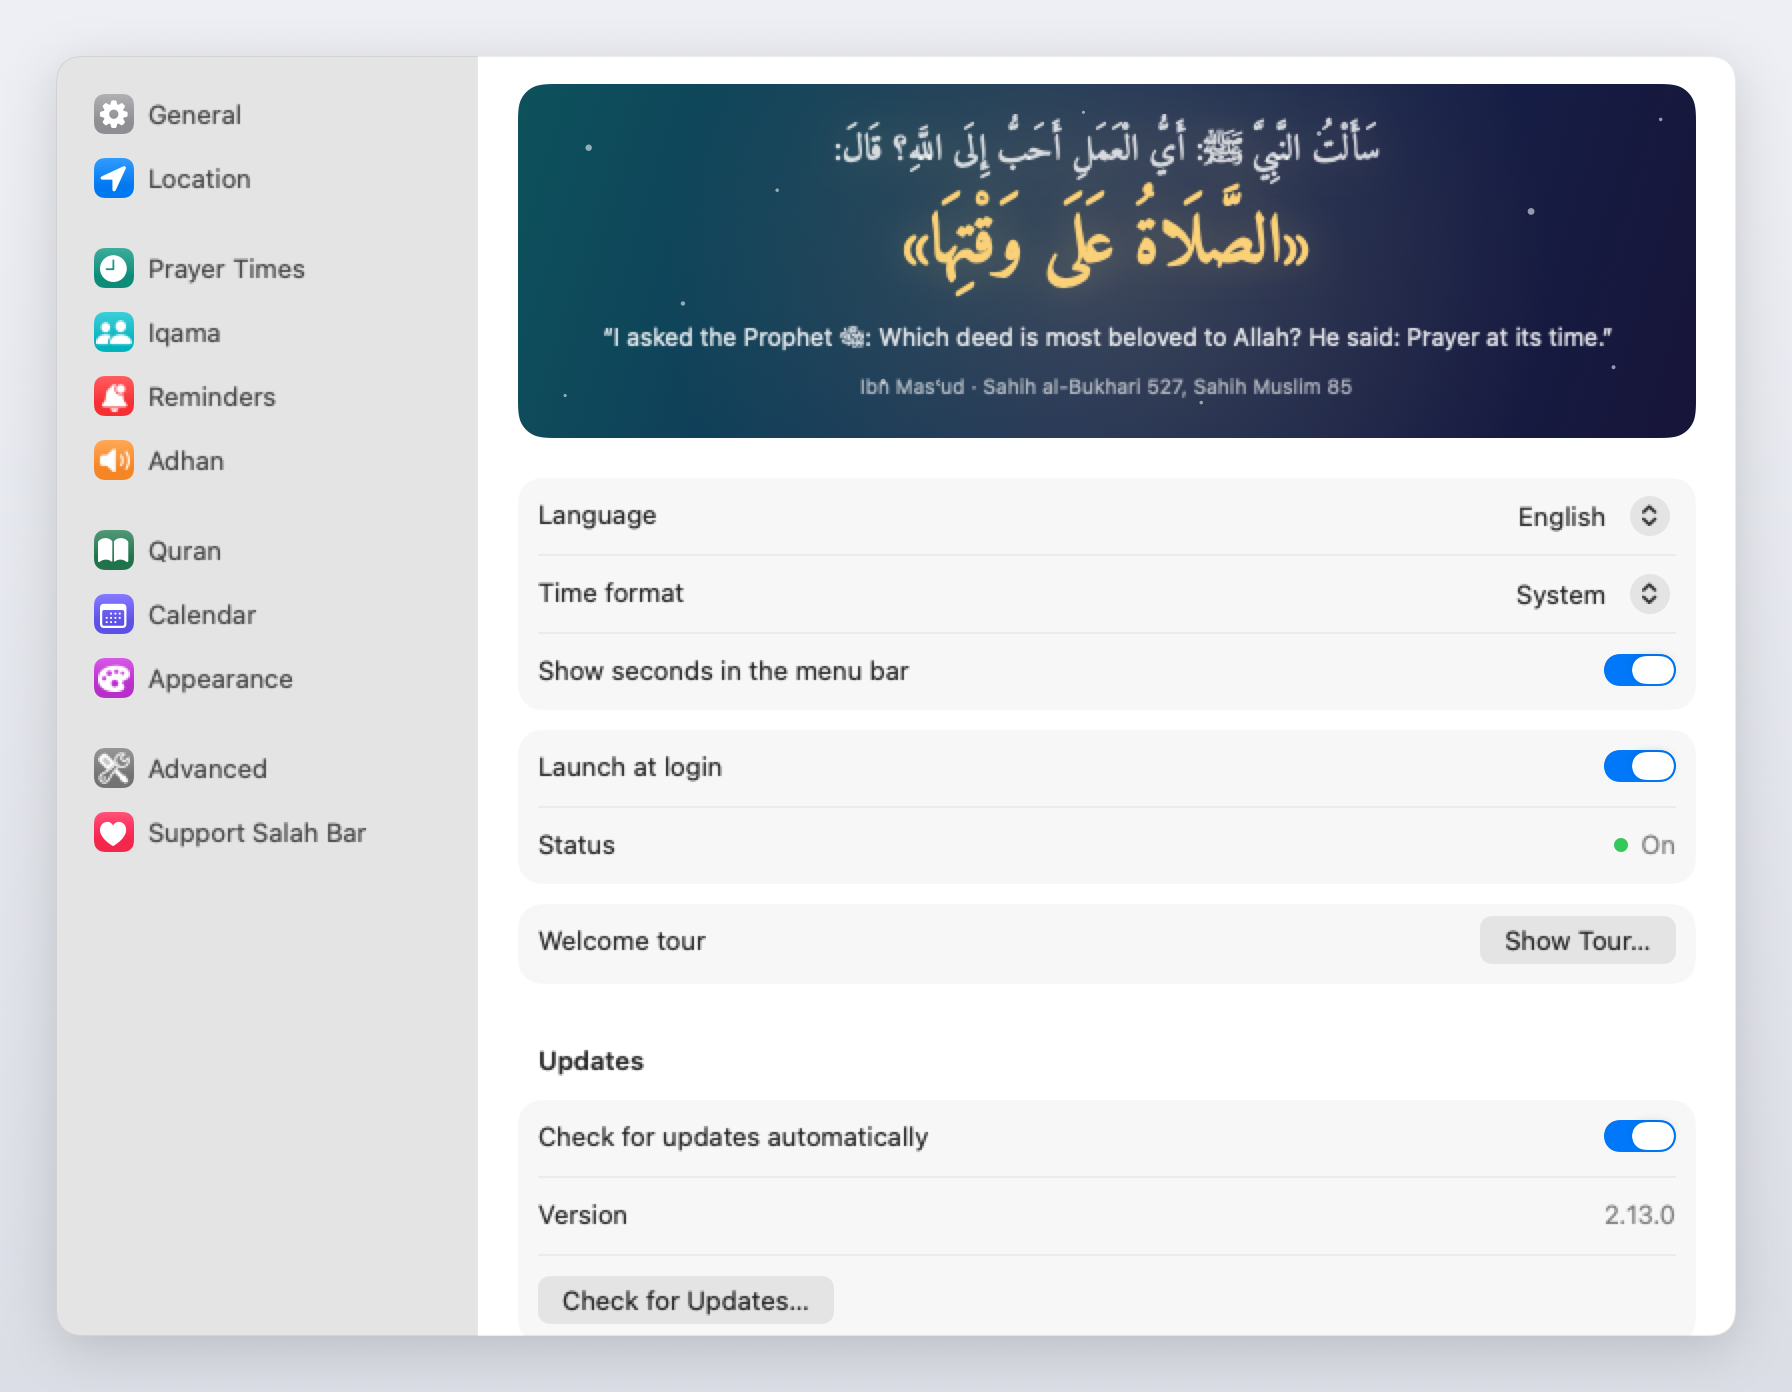
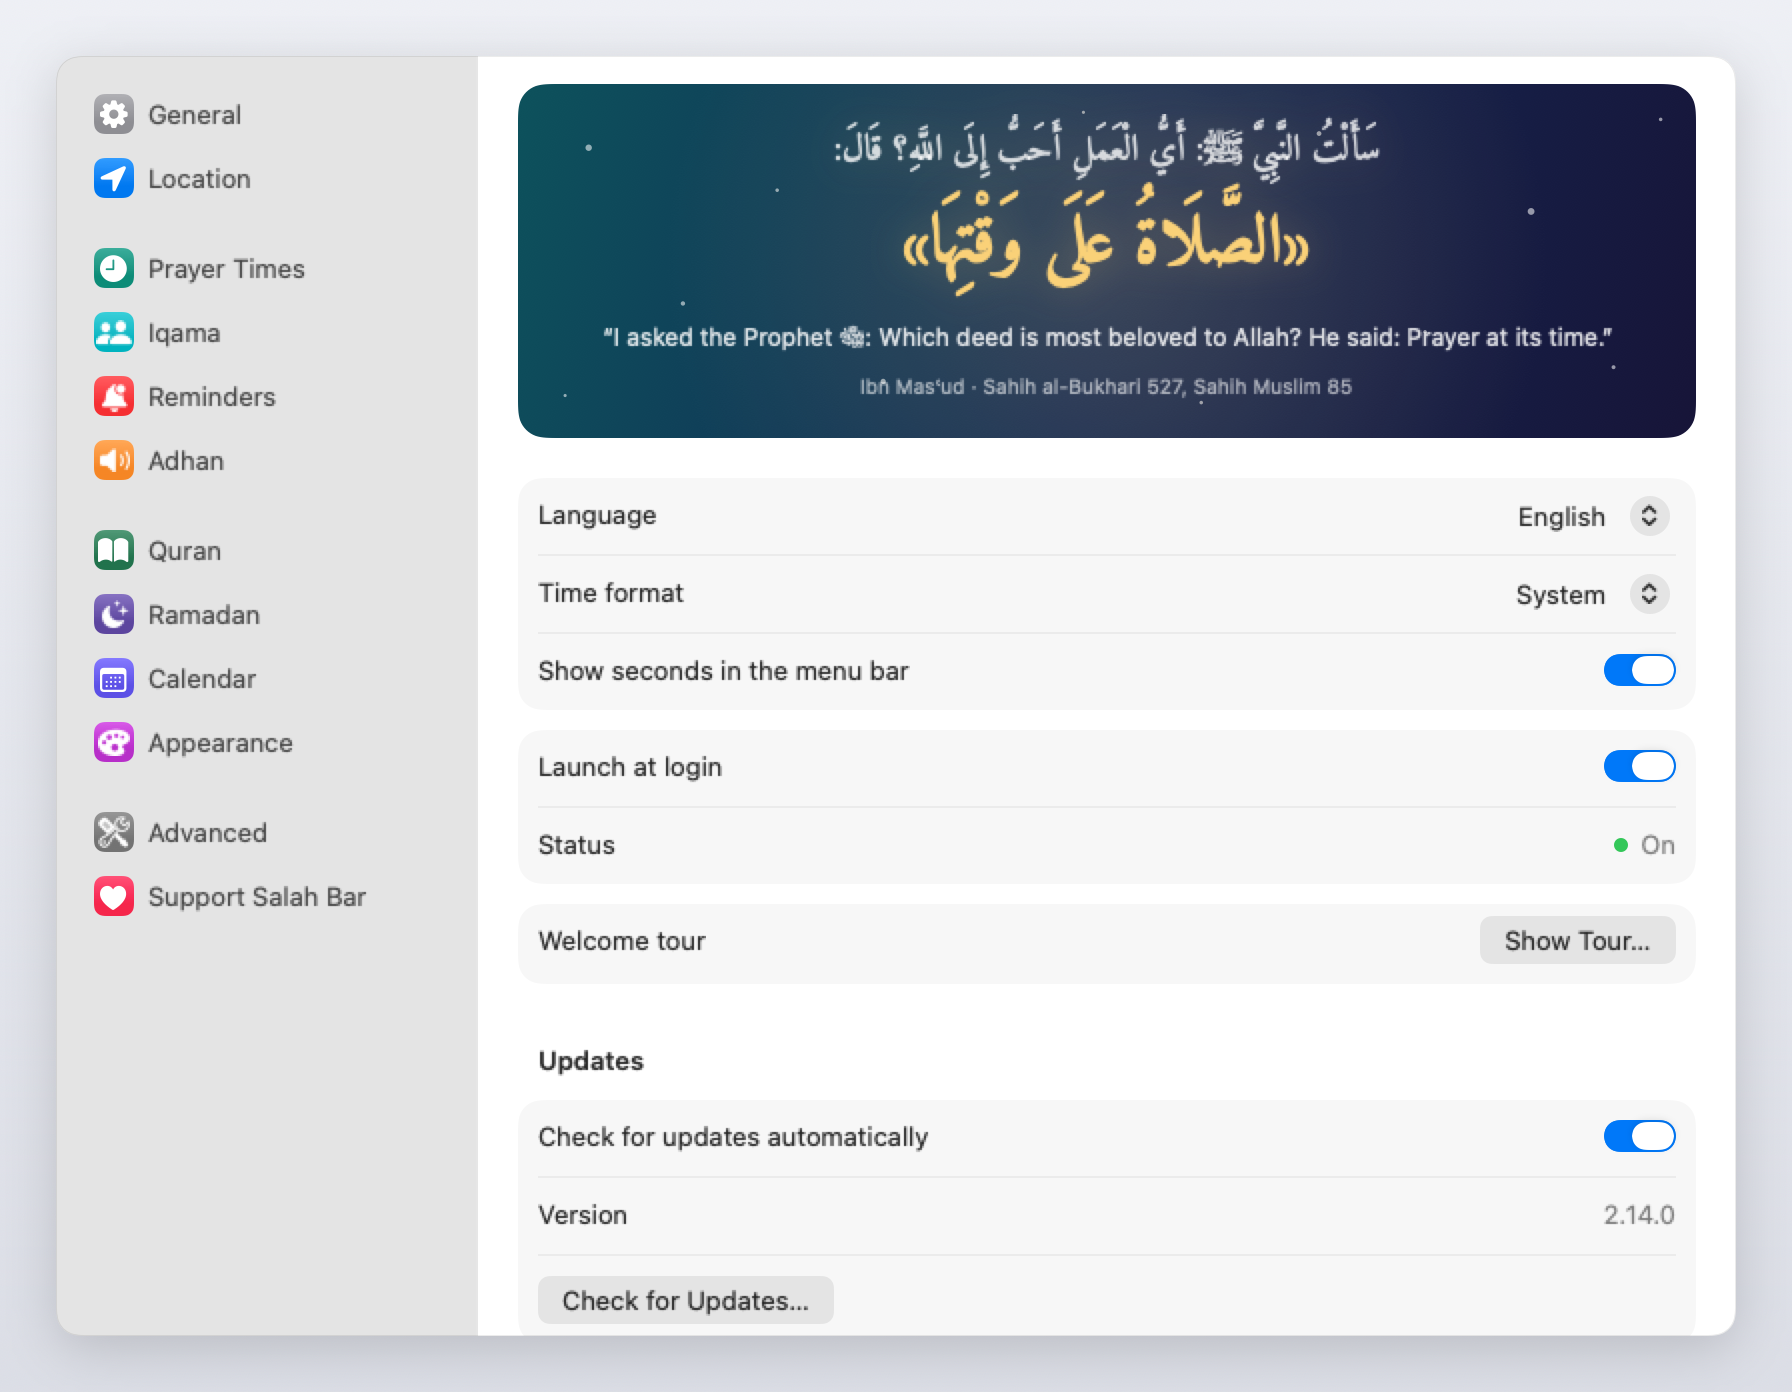
Release 2.14.0

Changed region(s): [[0.0312, 0.4325, 0.2188, 0.6796]]

diff --git a/README.md b/README.md
@@ -27,7 +27,8 @@ and lets you listen to the Quran from 242 reciters.
 - ⚡ **A flash you won't miss**: a green glow pulses around your screen and the menu bar icon blinks before the adhan (**Stop Flashing** when you've seen it)
 - 🖥 **Desktop widgets** in Small, Medium and Large
 - 📖 **A rotating ayah or dua**: 42 ayahs, Quranic duas and hadiths, changing every 15 minutes to once a day
-- 🌙 **Hijri date**, **Qibla** direction and **Ramadan** times (Imsak and an iftar countdown)
+- 🌙 **A Ramadan companion**: your fasts and fasts to make up, a Quran khatm plan you can listen to, the iftar and Laylat al-Qadr duas, suhoor and Taraweeh reminders, an iftar countdown in the menu bar, then the six days of Shawwal ([more](#ramadan))
+- 🕋 **Hijri date** and **Qibla** direction
 - 🌍 **7 languages**: English, Türkçe, العربية, اردو, Bahasa Indonesia, Bahasa Melayu and Français, with a right-to-left layout in Arabic and Urdu, and Arabic-Indic digits (٠١٢) in Arabic
 - 👋 **Easy to start**: a short welcome tour sets it up with you (language, location, notifications and the adhan) and shows what's inside ([more](#the-welcome-tour))
 - 📍 **Your location, your cities**: times follow where your Mac is, and you add only the cities you want
@@ -335,7 +336,8 @@ own icon, and the hadith at the top of **General**.
 |---|---|
 | **General** | Language (English, Turkish, Arabic, Urdu, Indonesian, Malay or French), Arabic-Indic digits, seconds in the menu bar, launch at login, automatic updates |
 | **Location** | Automatic location or a saved city, city search, adding a city by coordinates |
-| **Prayer Times** | Calculation method, Asr school (Standard or Hanafi), per-prayer minute adjustments, Hijri date correction (±2 days), Ramadan mode |
+| **Prayer Times** | Calculation method, Asr school (Standard or Hanafi), per-prayer minute adjustments, Hijri date correction (±2 days) |
+| **Ramadan** | The Ramadan companion and each of its reminders, the iftar countdown in the menu bar, the khatm plan, fasts to make up, Ramadan mode |
 | **Iqama** | Your mosque's iqama for each prayer and for Jumu'ah, and a reminder before it |
 | **Reminders** | When to remind you (10, 5 and 0 minutes before, or your own), and the Friday and Sunnah reminders |
 | **Adhan** | Adhan on/off, volume, fade-in, staying quiet during calls, pausing other audio, adhan and Fajr adhan tracks with preview and trimming, **My adhans** (your own files and the online library) |
@@ -398,6 +400,9 @@ Recitations are from [mp3quran.net](https://mp3quran.net).
   If you like, Salah Bar asks *"Did you pray Asr?"* when a prayer is still unmarked
   15 to 60 minutes after it begins, or shortly before the next prayer (Settings →
   Reminders, off by default); press **Prayed ✓** on that notification to mark it.
+  Turn on **Track Sunnah prayers** there too for a second, smaller gold check beside
+  Fajr, Dhuhr, Maghrib and Isha (and Asr, if you include the 4 before it) for their
+  regular Sunnah, logged apart so your streak and qada stay as they are.
 - **Calendar** (Settings → Calendar, off by default): Salah Bar warns you
   when a meeting overlaps a prayer, e.g. *"Your 13:00 meeting overlaps Dhuhr (13:04)"*,
   and can add short busy "Dhuhr", "Asr"… blocks to a calendar you choose. It only
@@ -419,6 +424,44 @@ Recitations are from [mp3quran.net](https://mp3quran.net).
   while the adhan plays, then carries on.
 - **Siri and Shortcuts**: ask *"When is Asr in Salah Bar"*, *"Next prayer in Salah
   Bar"* or *"Play Surah Al-Kahf in Salah Bar"*, or use the actions in Shortcuts.
+
+### Ramadan
+
+From mid-Sha'ban the menu shows how many days are left until Ramadan (and any
+fasts you still have to make up). During Ramadan, a card shows:
+
+- **the day of Ramadan** and a dot for each day, gold for each day you fasted.
+  Tick **Fasting today**, or **Not today** to add one to your fasts to make up;
+  Salah Bar keeps that count all year (Settings → Ramadan).
+- **the iftar dua** at Maghrib, *«ذهب الظمأ وابتلّت العروق وثبت الأجر إن شاء الله»*
+  (Abu Dawud 2357), also with the Maghrib notification.
+- on the **odd nights of the last ten**, Laylat al-Qadr with the dua
+  *«اللهم إنك عفوٌّ تحب العفو فاعفُ عني»* (at-Tirmidhi 3513).
+- with the **khatm plan** on, today's juz ("Juz 12: Hud 6 → Yusuf 52"): **▶** plays it
+  from its first ayah with your reciter, **✓** marks it read, and it tells you if you're behind.
+  Finish the Quran once, twice or three times.
+- from the 27th, a reminder to give **Zakat al-Fitr** before the Eid prayer; on Eid,
+  *«تقبّل الله منّا ومنكم»*; then the **six days of Shawwal** with a counter.
+
+Optional reminders: **suhoor** before Imsak, **Taraweeh** after Isha, **Laylat
+al-Qadr** at the start of the last third of the odd nights, and **Zakat al-Fitr** on
+the 27th. **Wake the Mac for suhoor** asks once for your password and schedules a
+wake before each suhoor reminder of the month, so you hear it even if the Mac was
+asleep (not in the App Store version). With prayer blocks on (Settings → Calendar),
+**Iftar and Taraweeh in my calendar** stretches the Maghrib block over iftar and the
+Isha block over Taraweeh. The **Ramadan widget** (Small or Medium) shows the day, a
+live countdown to iftar (or to the end of suhoor), your fasts and today's juz;
+outside Ramadan it counts the days until it. **Iftar in the menu bar**
+counts down to iftar while you fast, instead of to the next prayer. Siri: *"When is
+iftar in Salah Bar"*, *"When does suhoor end in Salah Bar"*. All of it is optional,
+in **Settings → Ramadan**, which also has the Hijri adjustment for when Ramadan
+starts a day earlier or later where you live.
+
+| The 27th night | Iftar, in Arabic |
+|---|---|
+| ![The Ramadan card on the 27th night](assets/screenshots/ramadan-en.png) | ![The Ramadan card at iftar, in Arabic](assets/screenshots/ramadan-ar.png) |
+| **The Ramadan widget** | |
+| ![The Ramadan widget, Medium](assets/screenshots/widget-ramadan-medium-en.png) | ![The Ramadan widget, Small, in Arabic](assets/screenshots/widget-ramadan-small-ar.png) |
 
 ### Desktop widgets
 
